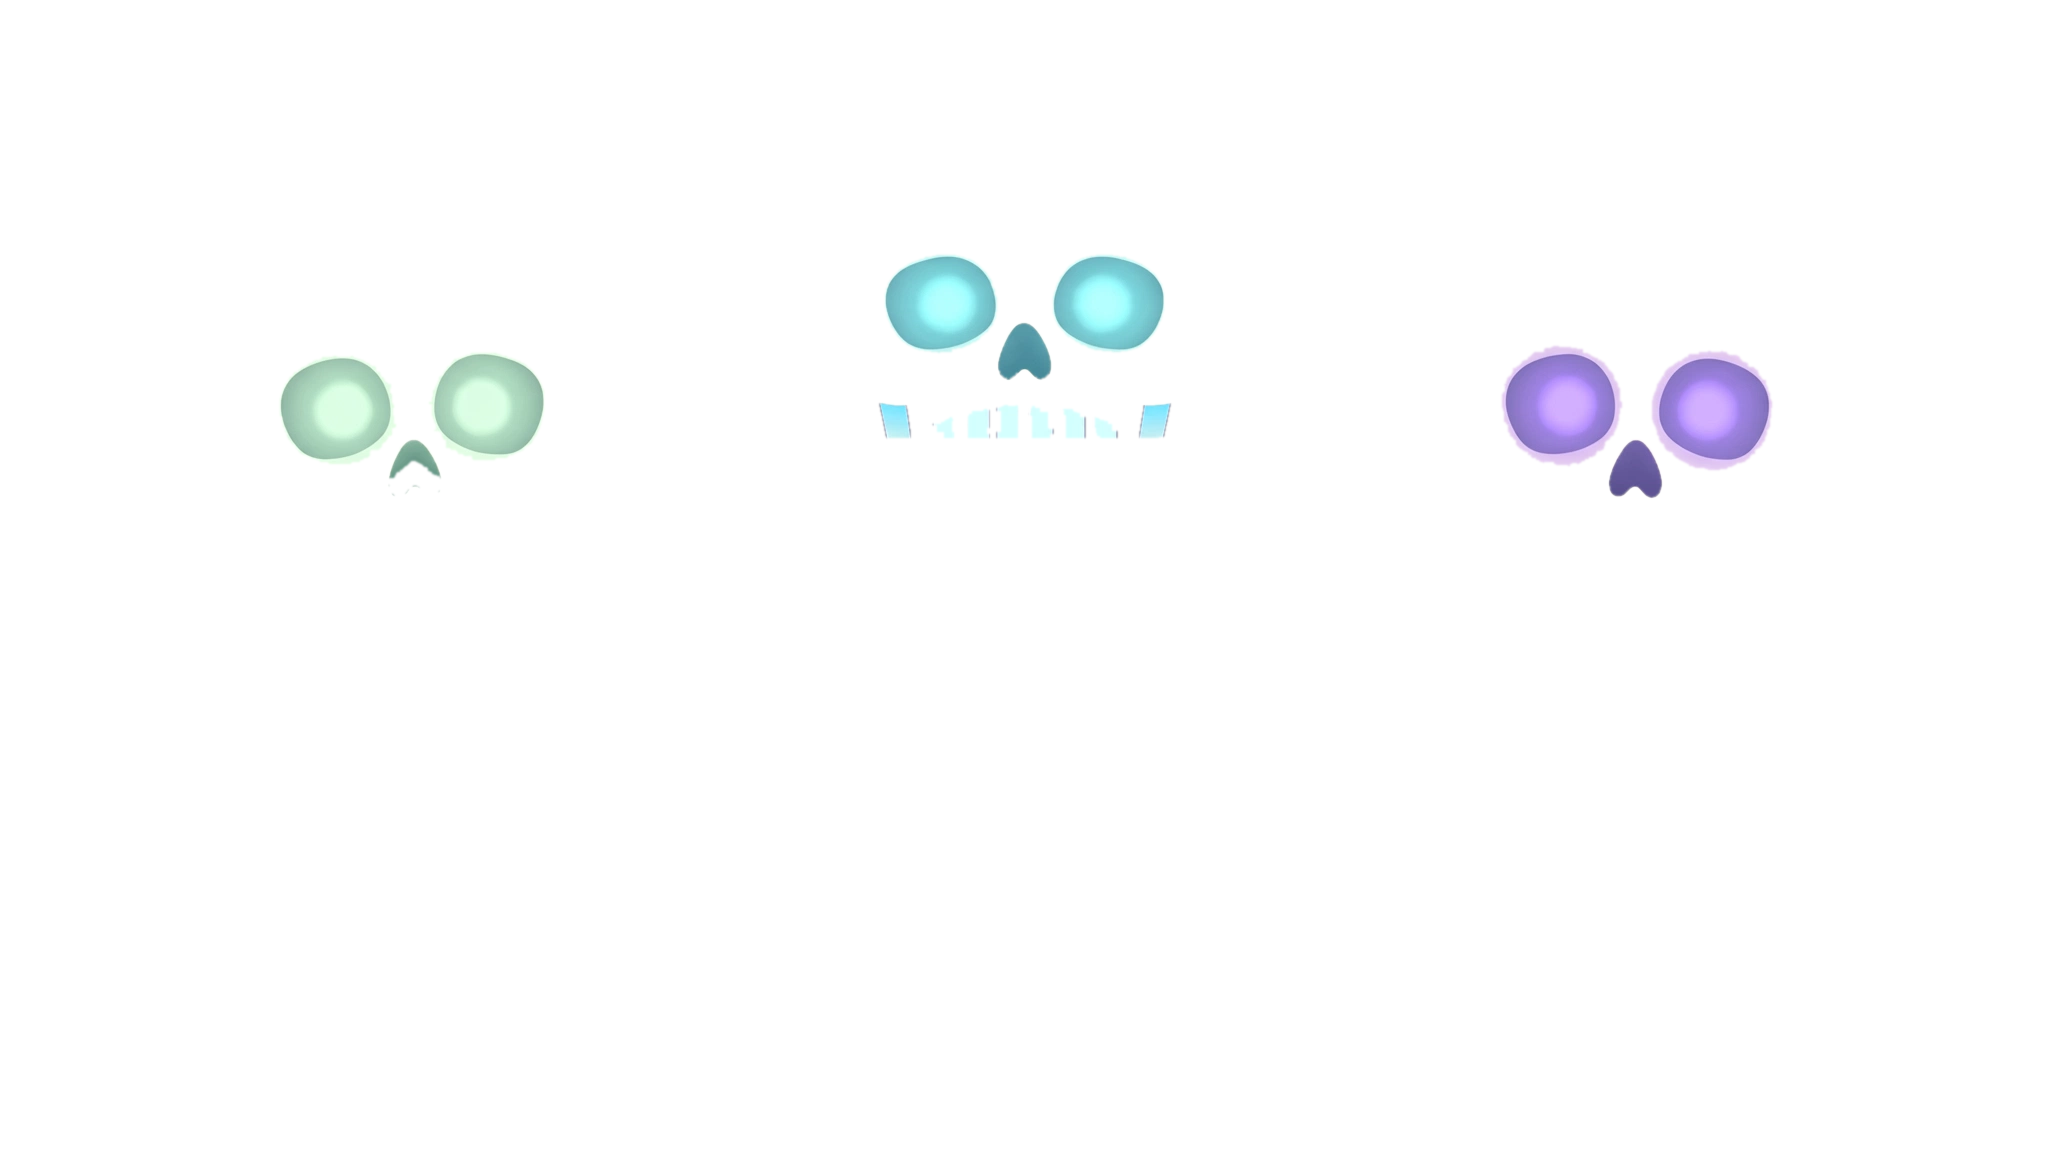
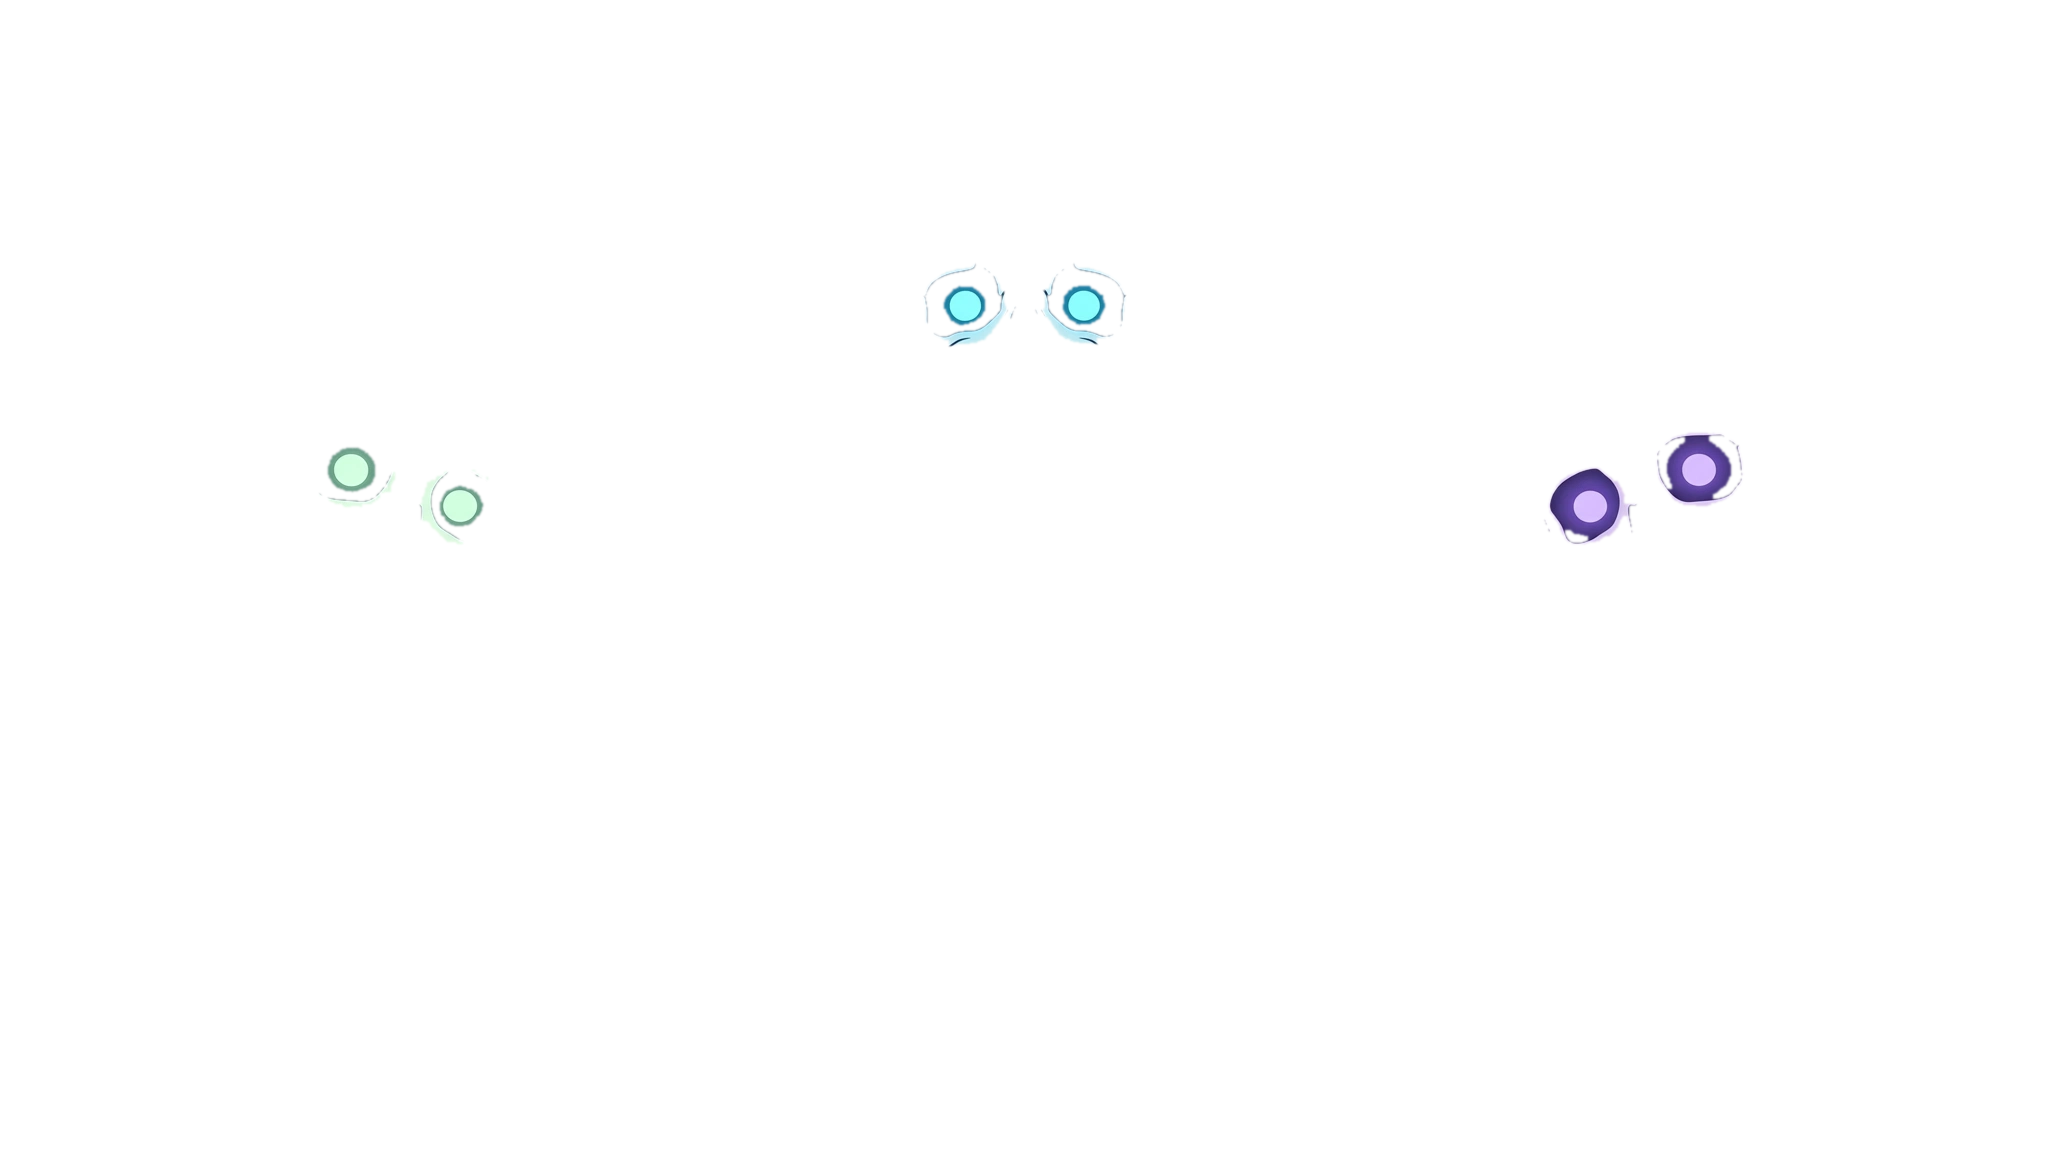
feat(skins): Trio landscape plate = the big busts, recomposed wide
The landscape Trio now uses the portrait bust trio's artwork
recomposed into 16:9 (Lan pointed at that art specifically): same
big dramatic skulls and glowing sockets, center jaw visualizer,
seek across the center ribs, spine volume below, corner hands as
prev/next. Replaces the smaller holding-hands landscape plate.
Pipeline and hotspot verification as before; window shape mechanism
unchanged (1024x576).

Changed region(s): [[0.4062, 0.2188, 0.5938, 0.4062], [0.7188, 0.2812, 0.875, 0.4688], [0.125, 0.2812, 0.2812, 0.4688]]

diff --git a/src/renderer/style.css b/src/renderer/style.css
@@ -1287,10 +1287,10 @@ input[type="range"]::-moz-range-thumb {
 }
 .skeleton-trio-skin .tr-eyes {
   position: absolute;
-  left: 7%;
-  top: 5%;
-  width: 86%;
-  height: 47%;
+  left: 9%;
+  top: 11%;
+  width: 83%;
+  height: 49%;
   padding: 0;
   background: transparent;
   border: none;
@@ -1306,20 +1306,20 @@ input[type="range"]::-moz-range-thumb {
   opacity: 0;
   transition: opacity 0.35s ease;
   background:
-    radial-gradient(circle at 16.5% 35.5%, rgba(150, 255, 205, 0.55), rgba(150, 255, 205, 0.15) 3.5%, transparent 6%),
-    radial-gradient(circle at 23.8% 35.5%, rgba(150, 255, 205, 0.55), rgba(150, 255, 205, 0.15) 3.5%, transparent 6%),
-    radial-gradient(circle at 46.2% 26.8%, rgba(110, 220, 255, 0.6), rgba(110, 220, 255, 0.16) 3.5%, transparent 6%),
-    radial-gradient(circle at 53.9% 26.8%, rgba(110, 220, 255, 0.6), rgba(110, 220, 255, 0.16) 3.5%, transparent 6%),
-    radial-gradient(circle at 76.3% 35.5%, rgba(185, 150, 255, 0.55), rgba(185, 150, 255, 0.15) 3.5%, transparent 6%),
-    radial-gradient(circle at 83.7% 35.5%, rgba(185, 150, 255, 0.55), rgba(185, 150, 255, 0.15) 3.5%, transparent 6%);
+    radial-gradient(circle at 17.3% 41.5%, rgba(150, 255, 205, 0.55), rgba(150, 255, 205, 0.15) 3%, transparent 5.5%),
+    radial-gradient(circle at 22.8% 43.8%, rgba(150, 255, 205, 0.55), rgba(150, 255, 205, 0.15) 3%, transparent 5.5%),
+    radial-gradient(circle at 47.3% 25.8%, rgba(110, 220, 255, 0.6), rgba(110, 220, 255, 0.16) 3%, transparent 5.5%),
+    radial-gradient(circle at 52.7% 25.8%, rgba(110, 220, 255, 0.6), rgba(110, 220, 255, 0.16) 3%, transparent 5.5%),
+    radial-gradient(circle at 77.3% 43.8%, rgba(185, 150, 255, 0.55), rgba(185, 150, 255, 0.15) 3%, transparent 5.5%),
+    radial-gradient(circle at 82.8% 41.5%, rgba(185, 150, 255, 0.55), rgba(185, 150, 255, 0.15) 3%, transparent 5.5%);
   z-index: 2;
 }
 .skeleton-trio-skin .tr-body:has(.tr-eyes.playing) .tr-eye-glow { opacity: 1; }
 .skeleton-trio-skin .tr-track-info {
   position: absolute;
-  left: 38%;
-  top: 1.6%;
-  width: 24%;
+  left: 39.8%;
+  top: 51.3%;
+  width: 20.4%;
   text-align: center;
   z-index: 3;
   pointer-events: none;
@@ -1345,10 +1345,10 @@ input[type="range"]::-moz-range-thumb {
 }
 .skeleton-trio-skin .tr-viz-panel {
   position: absolute;
-  left: 44.3%;
-  top: 39.5%;
-  width: 11.4%;
-  height: 11.5%;
+  left: 46%;
+  top: 35.5%;
+  width: 8.6%;
+  height: 12.5%;
   border-radius: 8px;
   background: rgba(5, 9, 15, 0.5);
   box-shadow: inset 0 0 14px rgba(0, 0, 0, 0.5);
@@ -1358,9 +1358,9 @@ input[type="range"]::-moz-range-thumb {
 .skeleton-trio-skin .tr-prev,
 .skeleton-trio-skin .tr-next {
   position: absolute;
-  top: 1%;
-  width: 16%;
-  height: 36%;
+  top: 2%;
+  width: 14%;
+  height: 31%;
   padding: 0;
   background: transparent;
   border: none;
@@ -1370,7 +1370,7 @@ input[type="range"]::-moz-range-thumb {
   -webkit-app-region: no-drag;
 }
 .skeleton-trio-skin .tr-prev { left: 0%; }
-.skeleton-trio-skin .tr-next { left: 84%; }
+.skeleton-trio-skin .tr-next { left: 86%; }
 .skeleton-trio-skin .tr-prev:hover,
 .skeleton-trio-skin .tr-next:hover {
   background: radial-gradient(circle, rgba(170, 230, 255, 0.22), transparent 72%);
@@ -1381,9 +1381,9 @@ input[type="range"]::-moz-range-thumb {
 }
 .skeleton-trio-skin .tr-seek-region {
   position: absolute;
-  left: 13%;
-  top: 63.2%;
-  width: 73%;
+  left: 38.5%;
+  top: 70.6%;
+  width: 22.5%;
   z-index: 4;
   -webkit-app-region: no-drag;
 }
@@ -1425,10 +1425,10 @@ input[type="range"]::-moz-range-thumb {
 }
 .skeleton-trio-skin .tr-spine-vol {
   position: absolute;
-  left: 47.4%;
-  top: 79%;
-  width: 5.2%;
-  height: 14.5%;
+  left: 46.8%;
+  top: 84%;
+  width: 6.4%;
+  height: 15.5%;
   cursor: grab;
   z-index: 4;
   -webkit-app-region: no-drag;
@@ -1464,10 +1464,10 @@ input[type="range"]::-moz-range-thumb {
 }
 .skeleton-trio-skin .tr-playlist {
   position: absolute;
-  left: 36%;
-  top: 71.5%;
-  width: 28%;
-  max-height: 9%;
+  left: 39.5%;
+  top: 75.5%;
+  width: 21%;
+  max-height: 8.5%;
   margin: 0;
   padding: 4px;
   list-style: none;

diff --git a/AGENTS.md b/AGENTS.md
@@ -74,7 +74,7 @@ Costume Contest: a haunting UI that is polished/unforgettable AND where the spoo
 - **Image frame + separated mechanism — 2026-11-09 (Lan's direction, supersedes the hand-drawn SVG silhouette for Dracula):** the approved artwork itself is the frame. A text-free edit of the reference ships as `src/renderer/assets/dracula-frame.webp`, clipped to the character outline via CSS `clip-path`; each painted element is a live overlay control — eyes = play/pause hotspot + playing glow, blood line = seek (transparent track, drip thumb), medallion = volume (drag / wheel / arrow keys; a gold orbit dot circles it to show the value), cape interior = live visualizer over a settling panel, fangs = prev/next hotspots, real title + playlist rendered over the art. Hotspot coordinates were verified by compositing the control boxes over the plate. Lesson earned the same day: match the approved reference's proportions, not just its ingredient list — a from-scratch SVG redraw read as "lame" next to the generated art.
 - **Separated element layers — 2026-11-09:** the plate's eyes, medallion and fangs are now real transparent layers (`src/renderer/assets/dracula-*.png`, full-canvas so they stack pixel-exact), extracted by color segmentation (SAM was attempted first; the PyTorch download is proxy-blocked in the build sandbox, and for flat art the color masks are crisper anyway). The medallion is erased from the shipped plate (stretch-inpaint) so the extracted layer genuinely rotates with volume; eye layers pulse via CSS filter while playing; fang layers glow when their hotspot is hovered/pressed. Layers recombine over the cleaned plate pixel-identical to the original art (verified by composite).
 - **True transparency — 2026-11-09:** the plate's baked-in dark backdrop survived the hand-traced CSS `clip-path` as a faint square around the character (Lan spotted it on Windows). Fix: the backdrop is flood-filled out of the plate itself (the gold trim is a closed boundary; backdrop = neutral grey connected to the image borders), so `dracula-frame.webp` now carries a real alpha channel and the `clip-path` is gone. Verified by compositing the plate on white and bright teal — clean character edge, no rectangle. Lesson: never approximate an outline with a polygon when the art can carry its own alpha.
-- **Skin #4: Skeleton Trio — 2026-11-09 (Lan's pick, one skin with three skeletons):** three skeletons shoulder-to-shoulder as one frame; all six eye sockets (mint / cyan / violet) are one separated layer + one wide play/pause hotspot; the CENTER skeleton carries the jaw visualizer, ribcage seek and spine volume (same vertical mechanism as solo Skeleton); the raised outer hands at the top corners are prev/next. **Revised to BUSTS the same day (Lan: "no need the whole body"):** three big busts cropped at mid-torso — skulls and sockets much larger, seek across the center ribs, spine volume on the short vertebra stub below the ribs, playlist across the lower ribs. The full-body version exists only in git history (`ccd82196`). **Then revised to LANDSCAPE the same day (Lan's pick):** the Trio is now a wide 16:9 plate — three busts in a row holding hands, seek line spanning all three ribcages — and it is the first skin to own the window shape: `Skin.windowSize` (Trio declares 1024×576; every other skin defaults to portrait 480×720) is applied by `Player.mountSkin` through the `window:set-size` IPC (main unmaximizes, resizes, centers). Note: rib-gap pockets sealed by overlapping bodies stay as dark backing inside the cages — reads as shadow, accepted.
+- **Skin #4: Skeleton Trio — 2026-11-09 (Lan's pick, one skin with three skeletons):** three skeletons shoulder-to-shoulder as one frame; all six eye sockets (mint / cyan / violet) are one separated layer + one wide play/pause hotspot; the CENTER skeleton carries the jaw visualizer, ribcage seek and spine volume (same vertical mechanism as solo Skeleton); the raised outer hands at the top corners are prev/next. **Revised to BUSTS the same day (Lan: "no need the whole body"):** three big busts cropped at mid-torso — skulls and sockets much larger, seek across the center ribs, spine volume on the short vertebra stub below the ribs, playlist across the lower ribs. The full-body version exists only in git history (`ccd82196`). **Then revised to LANDSCAPE the same day (Lan's pick):** the Trio is a wide 16:9 plate and it is the first skin to own the window shape: `Skin.windowSize` (Trio declares 1024×576; every other skin defaults to portrait 480×720) is applied by `Player.mountSkin` through the `window:set-size` IPC (main unmaximizes, resizes, centers). **Final plate (Lan pointed at the portrait-bust art: "make this one in landscape"):** the big-skulled bust trio recomposed wide — center skeleton carries jaw viz + center-rib seek + spine volume, side skulls complete the play/pause row, corner hands are prev/next (the center skeleton's own raised hand is decorative, inside the eyes hotspot). The smaller holding-hands landscape plate was replaced the same day. Note: rib-gap pockets sealed by overlapping bodies stay as dark backing inside the cages — reads as shadow, accepted.
 - **All three skins image-frame — 2026-11-09:** Frankenstein and Skeleton got the full Dracula treatment — generated character art (text-free on the first pass this time), backdrop flood-filled to alpha, element layers separated by color segmentation. Frankenstein: forehead EQ = visualizer panel, eyes = play/pause (layers pulse), neck bolts = prev/next, chest scar = seek, brass dial in the hand = volume (dial erased from the plate via a palm-gradient fill and the layer rotates; two erase lessons — a horizontal-stretch inpaint smears when neighbours aren't uniform, and any erase zone must sit inside the flood-fill's protected region or the fill eats it). Skeleton: eye sockets = play/pause, jaw gap = visualizer, ribcage line = seek, spine = VERTICAL volume (drag up/down; a glow fill + dot travel the vertebrae), bony hands = prev/next; the gaps between its bones are genuinely see-through, and the baked seek line's stubs outside the ribcage were alpha-clipped. All hotspot geometry verified by compositing the CSS boxes over the plates; the dial rotation was verified ghost-free.
 
 ## Open decisions
